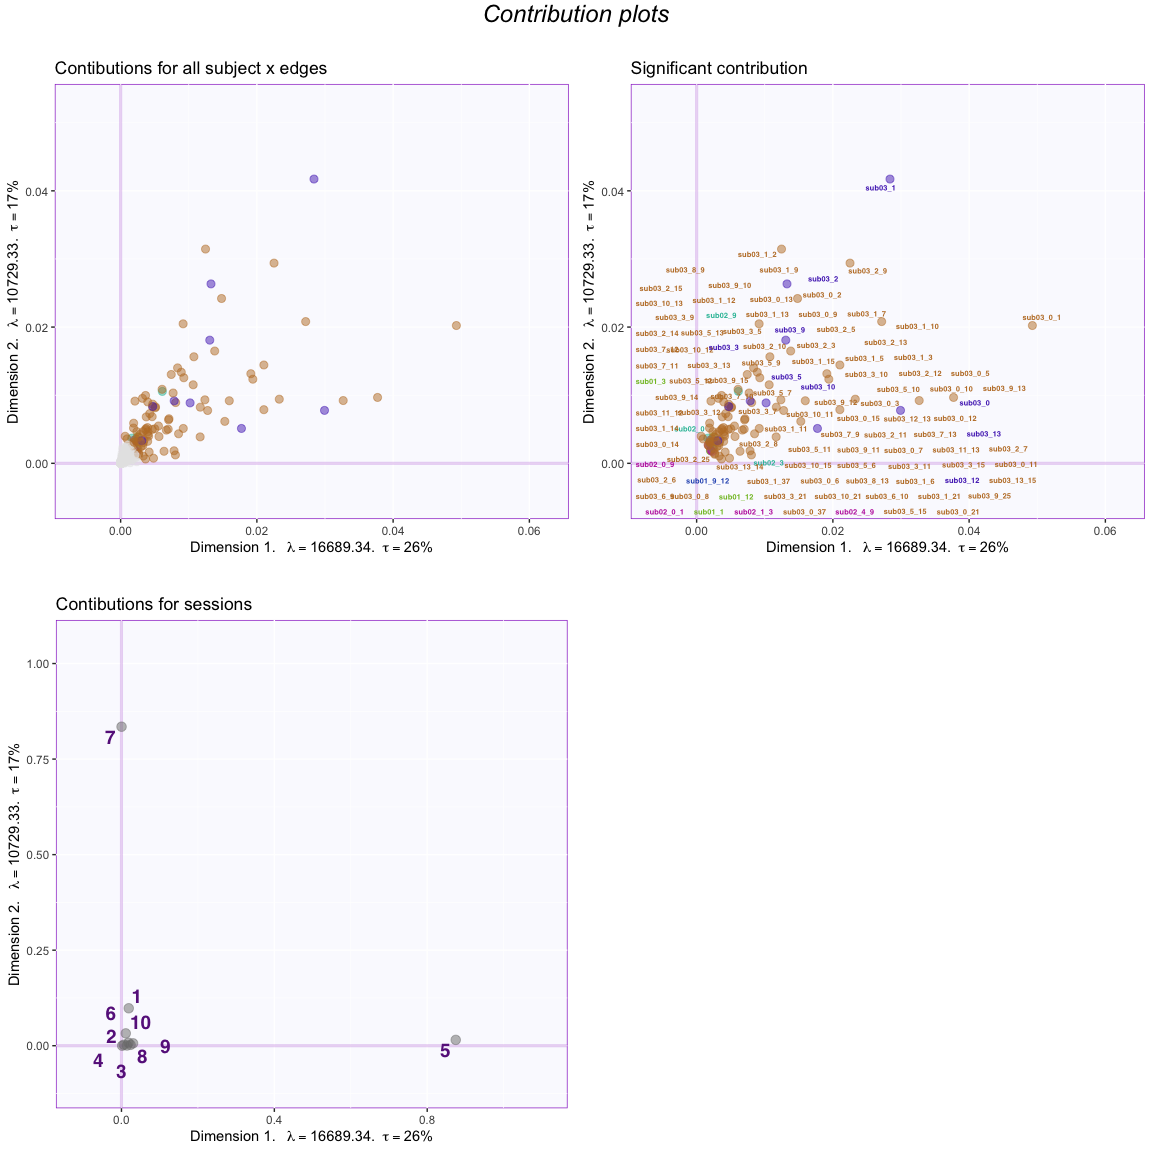
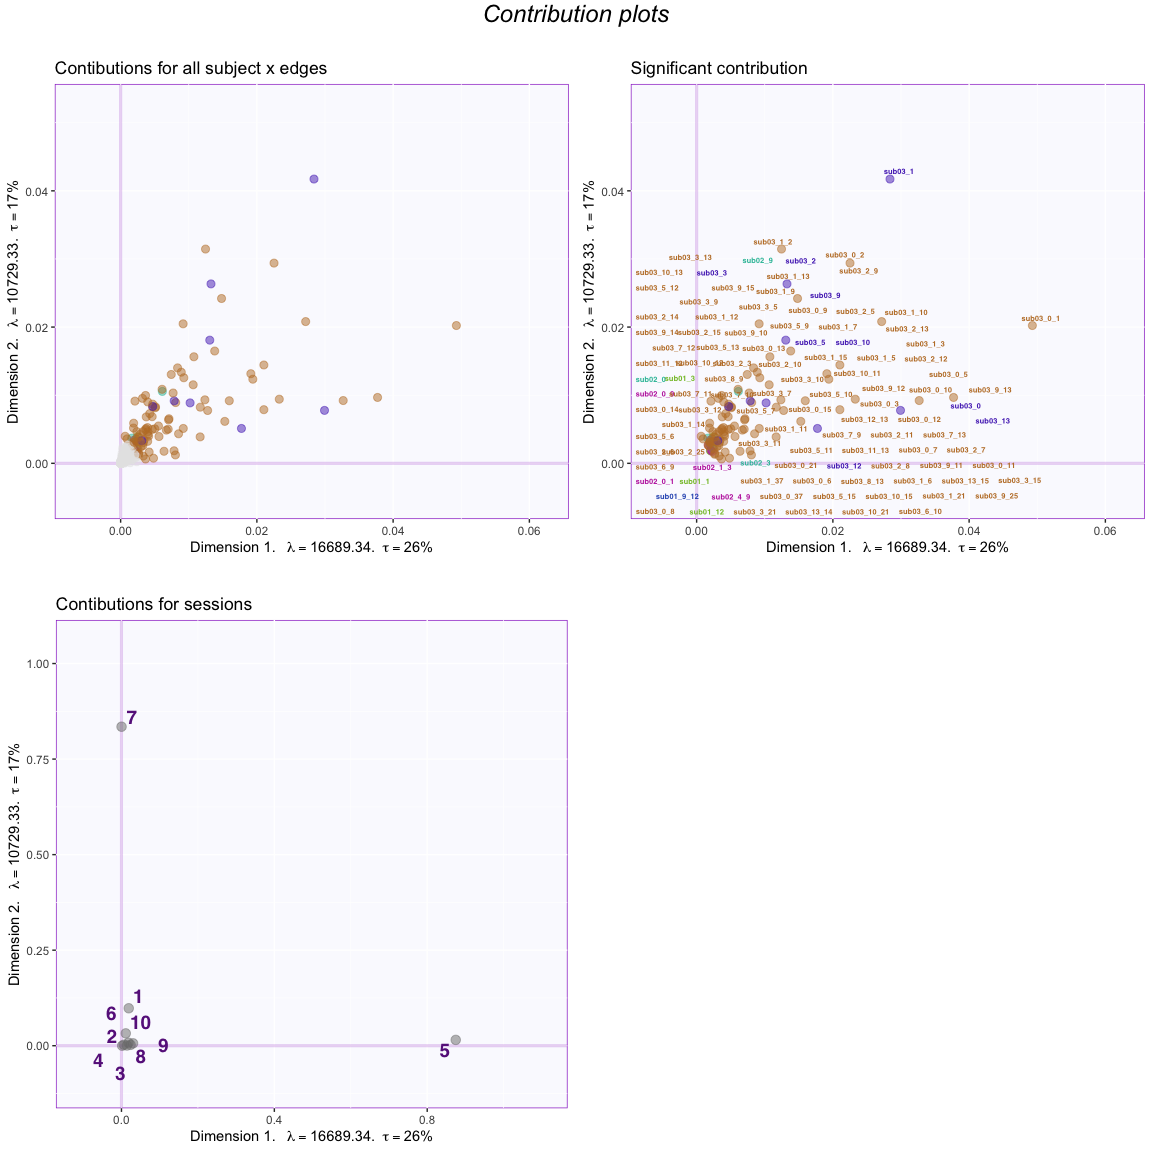
Reknit #2 without partial factor score (3 sub not working for plot)

Changed region(s): [[0.5312, 0.1875, 0.9062, 0.4688], [0.0938, 0.9062, 0.125, 0.9375]]

diff --git a/res_MuSu/2_[NA,n, NA]/MSC_010208/MuSu__NA,_n,_NA_.md b/res_MuSu/2_[NA,n, NA]/MSC_010208/MuSu__NA,_n,_NA_.md
@@ -1,0 +1,302 @@
+MuSu\_(NA, n, NA) - MSC01, MSC02, MSC08 (bad sub)
+================
+
+> This is an SVD with centered & normalized columns.
+
+##### Data:
+
+The data are from the morning scan club (MSC) resting-state data where the participants were each scanned 10 times. The data that are analyzed here are the z-transformed coefficients of correlation between regions. These regions can be categorized into 12 networks:
+
+<table style="width:72%;">
+<colgroup>
+<col width="9%" />
+<col width="38%" />
+<col width="23%" />
+</colgroup>
+<thead>
+<tr class="header">
+<th align="center">Comm</th>
+<th align="center">Community</th>
+<th align="center">CommLabel.short</th>
+</tr>
+</thead>
+<tbody>
+<tr class="odd">
+<td align="center">0</td>
+<td align="center">UnAssign</td>
+<td align="center">00Bd</td>
+</tr>
+<tr class="even">
+<td align="center">1</td>
+<td align="center">Default</td>
+<td align="center">01DMN</td>
+</tr>
+<tr class="odd">
+<td align="center">2</td>
+<td align="center">lateral Visual</td>
+<td align="center">02lVis</td>
+</tr>
+<tr class="even">
+<td align="center">3</td>
+<td align="center">Frontoparietal</td>
+<td align="center">03FPN</td>
+</tr>
+<tr class="odd">
+<td align="center">4</td>
+<td align="center">medial Visual</td>
+<td align="center">04mVis</td>
+</tr>
+<tr class="even">
+<td align="center">5</td>
+<td align="center">dorsal Attention</td>
+<td align="center">05DAN</td>
+</tr>
+<tr class="odd">
+<td align="center">6</td>
+<td align="center">Premotor</td>
+<td align="center">06PMo</td>
+</tr>
+<tr class="even">
+<td align="center">7</td>
+<td align="center">ventral Attention</td>
+<td align="center">07VAN</td>
+</tr>
+<tr class="odd">
+<td align="center">8</td>
+<td align="center">Salience</td>
+<td align="center">08SLC</td>
+</tr>
+<tr class="even">
+<td align="center">9</td>
+<td align="center">Cingular opercular</td>
+<td align="center">09CON</td>
+</tr>
+<tr class="odd">
+<td align="center">10</td>
+<td align="center">Sensorimotor - hand</td>
+<td align="center">10hSMN</td>
+</tr>
+<tr class="even">
+<td align="center">11</td>
+<td align="center">Sensorimotor - face</td>
+<td align="center">11fSMN</td>
+</tr>
+<tr class="odd">
+<td align="center">12</td>
+<td align="center">Auditory</td>
+<td align="center">12Aud</td>
+</tr>
+<tr class="even">
+<td align="center">13</td>
+<td align="center">anterior Medial temporal</td>
+<td align="center">13aMTL</td>
+</tr>
+<tr class="odd">
+<td align="center">14</td>
+<td align="center">posterior Medial temporal</td>
+<td align="center">14pMTL</td>
+</tr>
+<tr class="even">
+<td align="center">15</td>
+<td align="center">Parietal memory</td>
+<td align="center">15PMN</td>
+</tr>
+<tr class="odd">
+<td align="center">16</td>
+<td align="center">Context</td>
+<td align="center">16CAN</td>
+</tr>
+<tr class="even">
+<td align="center">17</td>
+<td align="center">Sensorimotor - foot</td>
+<td align="center">17fSMN</td>
+</tr>
+<tr class="odd">
+<td align="center">21</td>
+<td align="center">Unknown</td>
+<td align="center">21UN</td>
+</tr>
+<tr class="even">
+<td align="center">25</td>
+<td align="center">Unknown</td>
+<td align="center">25UN</td>
+</tr>
+<tr class="odd">
+<td align="center">29</td>
+<td align="center">Unknown</td>
+<td align="center">29UN</td>
+</tr>
+<tr class="even">
+<td align="center">34</td>
+<td align="center">UnKnown</td>
+<td align="center">34UN</td>
+</tr>
+<tr class="odd">
+<td align="center">37</td>
+<td align="center">UnKnown</td>
+<td align="center">37UN</td>
+</tr>
+</tbody>
+</table>
+
+``` r
+# read parcel labels for each subject
+parcel.comm.path <- "../../../data/parcel_community"
+parcel.list <- lapply(1:length(parcelfile2read), function(x){
+                      parcel <- read.table(paste0(parcel.comm.path, parcelfile2read[x]),sep = ",")
+                      getVoxDes(parcel,CommName)
+                      })
+names(parcel.list) <- subj.name
+
+#-- Create colors for heatmap 
+labelcol <- list()
+textcol <- list()
+for(i in 1:length(subj.name)){
+  labelcol[[i]] <- parcel.list[[i]]$Comm.col$gc[order(rownames(parcel.list[[i]]$Comm.col$gc))]
+  names(labelcol)[i] <- subj.name[i]
+  
+  textcol[[i]] <- rep("black", length(labelcol[[i]]))
+  textcol[[i]][as(colorspace::hex2RGB(labelcol[[i]]), "polarLUV")@coords[,1] < 35] <- "white"  # Convert hex2RGB to lum
+}
+```
+
+As a result, the correlation matrix of each session of each subject will look like this:
+
+This correlation matrix were then turned into a rectangular matrix
+
+##### Rectangular data:
+
+-   Rows: 5 sessions
+
+-   Columns: Different edges (e.g, *within DMN*, *between DMN & CON*, *between DMN & FPN*, etc.) of different subjects
+
+*Note: The data was transformed from the upper triangle of the correlation matrices. From the correlation matrix of each session, its upper triangle are reshape as a vector. These reshaped vectors of different sessions are then concatenated on the rows and those of different subjects are concatenated on the columns.*
+
+##### Method:
+
+-   Centering: across sessions (rows) (i.e., the columns are centered)
+
+-   Normalizing: across sessions (rows) (i.e., the columns are normalized)
+
+Then, the preprocessed data are decomposed by the SVD:
+
+##### Results:
+
+###### Scree plot
+
+First, the scree plot illustrates the eigen value with percentage of explained variance of each component. The results showed that there are three important components with the percentage of explained variance more than average (i.e., 1/10).
+
+![](MuSu__NA,_n,_NA__files/figure-markdown_github/scree-1.png)
+
+###### Contributions
+
+Before checking the factor scores, we first plot the contributions to check the importance of network edges. The important edges are defined as those that with significant mean contribution to both components 1 and 2.
+
+We first compute the contribution and find the important edges and sessions:
+
+``` r
+#--- get the contribution of each component
+cI <- svd.res$ExPosition.Data$ci
+cJ <- svd.res$ExPosition.Data$cj
+#--- get the sum of contribution for each edge
+c_edge <- gtlabel$subjects_edge_label %>% as.matrix %>% makeNominalData %>% t %>% "%*%"(cJ)
+rownames(c_edge) <- sub(".","",rownames(c_edge))
+rownames(cI) <- c(1:10)
+## Find important sessions
+#--- get the contribution for component 1 AND 2 by sum(SS from 1, SS from 2)/sum(eigs 1, eigs 2)
+sesCtr12 <- (cI[,1]+cI[,2])/(svd.res$ExPosition.Data$eigs[1] + svd.res$ExPosition.Data$eigs[2])
+#--- the important sessions are the ones that contribute more than or equal to the average
+importantSes <- (sesCtr12 >= 1/length(sesCtr12))
+importantSes1 <- (cI[,1] >= 1/length(cI[,1]))
+importantSes2 <- (cI[,2] >= 1/length(cI[,2]))
+#--- color for sessions
+col4ImportantSes <- as.matrix(rep("mediumorchid4",nrow(cI))) # get colors
+col4NS <- 'gray48' # set color for not significant edges to gray
+col4ImportantSes[!importantSes] <- col4NS # replace them in the color vector
+
+## Find important edges
+#--- compute the sums of squares of each variable for each component
+absCtrEdg <- as.matrix(c_edge) %*% diag(svd.res$ExPosition.Data$eigs)
+#--- get the contribution for component 1 AND 2 by sum(SS from 1, SS from 2)/sum(eigs 1, eigs 2)
+edgCtr12 <- (absCtrEdg[,1] + absCtrEdg[,2])/(svd.res$ExPosition.Data$eigs[1] + svd.res$ExPosition.Data$eigs[2])
+#--- the important variables are the ones that contribute more than or equal to the average
+importantEdg <- (edgCtr12 >= 1/length(edgCtr12))
+importantEdg1 <- (cI[,1] >= 1/length(cJ[,1]))
+importantEdg2 <- (cI[,2] >= 1/length(cJ[,2]))
+#--- find the between/within description for each network edge
+net.edge <- matrix(NA, nrow = nrow(c_edge),ncol = 1)
+for (i in 1:nrow(c_edge)){
+  edge2check <- rownames(c_edge)[i]
+  net.edge[i,1] <- unique(gtlabel[which(gtlabel$subjects_edge_label == edge2check),"subjects_wb"])
+}
+#--- create color based on the between/within description for network edges
+net.edge.col <- net.edge %>% makeNominalData %>% createColorVectorsByDesign
+rownames(net.edge.col$gc) <- sub(".","",rownames(net.edge.col$gc))
+rownames(net.edge.col$oc) <- rownames(c_edge)
+#--- color for networks
+col4ImportantEdg <- net.edge.col$oc # get colors
+col4NS <- 'gray90' # set color for not significant edges to gray
+col4ImportantEdg[!importantEdg] <- col4NS # replace them in the color vector
+```
+
+Then the contributions are shown in plots
+
+![](MuSu__NA,_n,_NA__files/figure-markdown_github/grid_ciplot-1.png) The contribution for each network edge is computed by dividing its total SS across region edges and dimensions (i.e., the cross product of contribution and eigenvalues) by the total eigenvalues of the two components.
+
+###### Factor scores
+
+First, we plot the factor scores for the 10 sessions
+
+![](MuSu__NA,_n,_NA__files/figure-markdown_github/plot_f_sess-1.png)
+
+We can also compute the partial factor scores for each participant:
+
+``` r
+# subj.table <- gtlabel$subjects_label
+# n_subj <- length(unique(gtlabel$subjects_label))
+# # compute partial factor scores: K x sv[1] x X_k x Q_k
+# pFi <- sapply(1:n_subj, function(x){
+#   n_subj/(sv[x])*cgt[,which(subj.table == unique(subj.table)[x])] %*% (svd.res$ExPosition.Data$pdq$q[which(subj.table == unique(subj.table)[x]),])
+# }, simplify = "array")
+# # name the dimension of the array that stores partial F
+# dimnames(pFi) <- list(rownames(cgt),colnames(svd.res$ExPosition.Data$fi),unique(subj.table))
+# 
+# ## Check barycentric
+# ch1 <- apply(pFi,c(1:2),mean)
+# ch2 <- cgt %*% (svd.res$ExPosition.Data$pdq$q)
+```
+
+And plot them on the same factor map:
+
+To have a clearer view of the factor scores for the subject x edges, we first compute the mean factor scores for the each network edge.
+
+``` r
+# Compute means of factor scores for different edges----
+mean.fj <- getMeans(svd.res$ExPosition.Data$fj, gtlabel$subjects_edge_label) # with t(gt)
+colnames(mean.fj) <- sapply(c(1:ncol(mean.fj)), function(x){sprintf("Factor %s",x)})
+
+BootCube.Comm <- Boot4Mean(svd.res$ExPosition.Data$fj,
+                           design = gtlabel$subjects_edge_label,
+                           niter = 100,
+                           suppressProgressBar = TRUE)
+
+
+# Compute means of factor scores for different types of edges
+mean.fj.bw <- getMeans(svd.res$ExPosition.Data$fj, gtlabel$subjects_wb) # with t(gt)
+colnames(mean.fj.bw) <- sapply(c(1:ncol(mean.fj.bw)), function(x){sprintf("Factor %s",x)})
+
+BootCube.Comm.bw <- Boot4Mean(svd.res$ExPosition.Data$fj,
+                           design = gtlabel$subjects_wb,
+                           niter = 100,
+                           suppressProgressBar = TRUE)
+```
+
+Next, we plot the factor scores for the subject x edges (a mess): Dim 1 & 2
+
+![](MuSu__NA,_n,_NA__files/figure-markdown_github/grid_f_netedge_plot-1.png)
+
+Note that a network edge with its region edges significantly contribute to the components both positively and negatively results in a significant mean factor score that is close to the origin. Also, a network edge with only few region edges will lead to a small total SS as compared to the total eigenvalues; this type of network edge might not be significant even when being far away from the origin. (This is shown in the chunk named `checkCtr` which is hidden/commented in the .rmd.)
+
+We can also add boostrap intervals for the factor scores
+
+![](MuSu__NA,_n,_NA__files/figure-markdown_github/grid_f_netedgeCI_plot-1.png)
